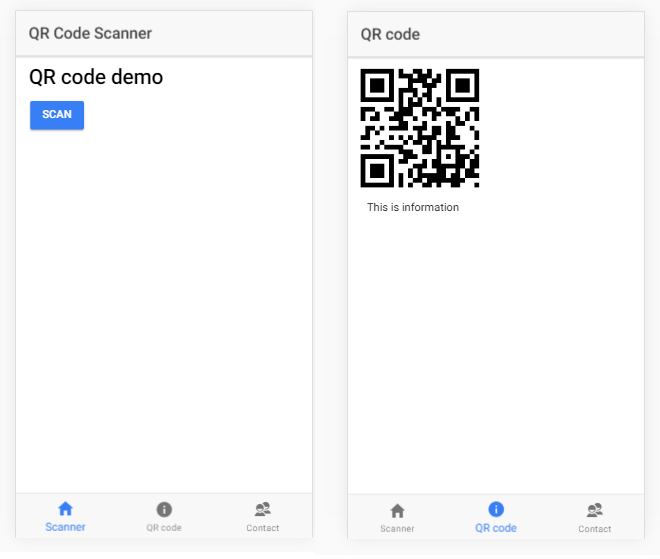
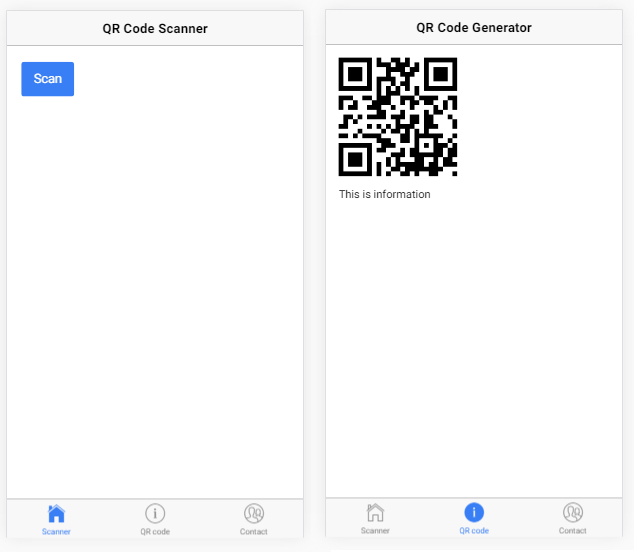
update text

diff --git a/src/pages/home/home.ts b/src/pages/home/home.ts
@@ -1,7 +1,6 @@
 import { Component } from '@angular/core';
-
 import { NavController, Platform, AlertController } from 'ionic-angular';
-import { QRCodeModule } from 'angular2-qrcode';
+
 declare var cordova: any;
 @Component({
   selector: 'page-home',

diff --git a/src/pages/home/home.html b/src/pages/home/home.html
@@ -7,8 +7,5 @@
 </ion-header>
 
 <ion-content padding>
-  <h1>QR code demo</h1>
-
   <button ion-button (click)="scan()">Scan</button>
- 
 </ion-content>

diff --git a/src/pages/about/about.html b/src/pages/about/about.html
@@ -1,7 +1,7 @@
 <ion-header>
   <ion-navbar>
     <ion-title>
-      QR code
+      QR Code Generator
     </ion-title>
   </ion-navbar>
 </ion-header>
